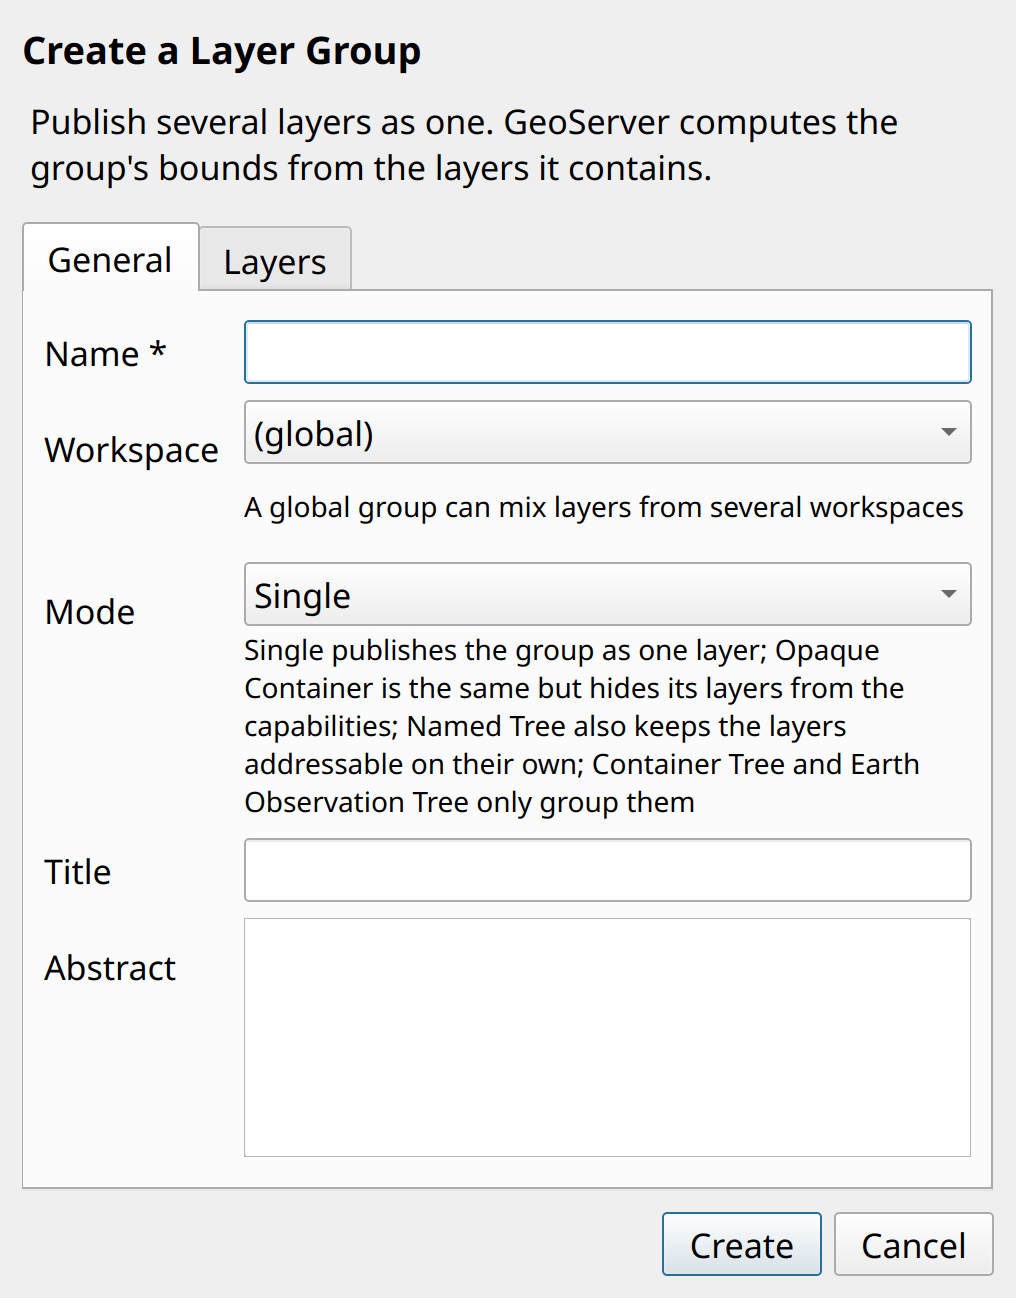
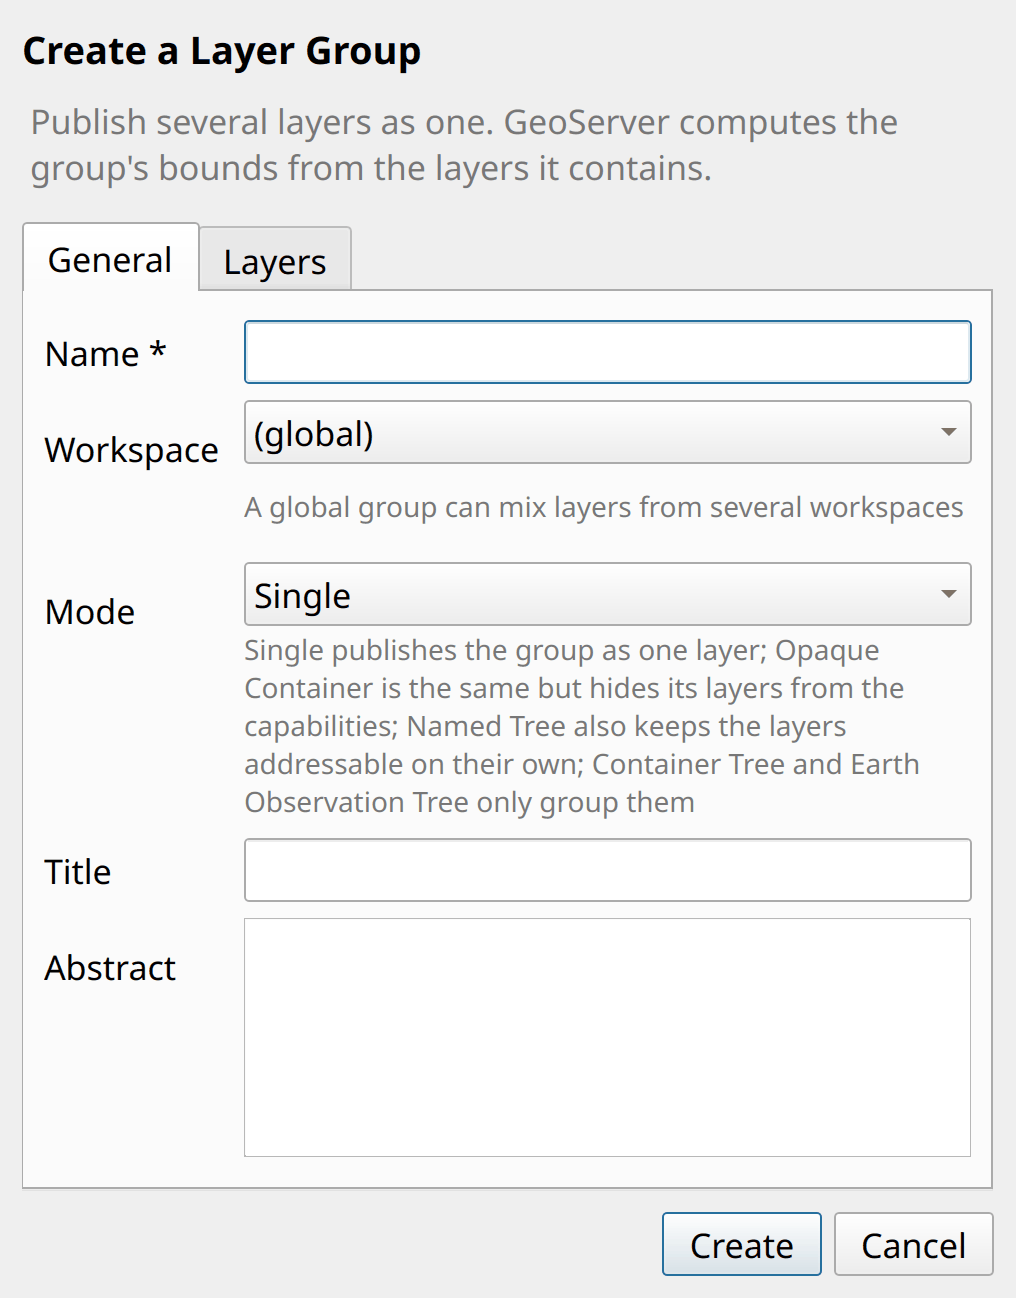
fix: forms keep a stored zoom, ask on the close button, grey their hints, open unscrolled
F22: a ListTable spin cell set its range to the column's (0 to 40 for a
gridset's zoom) before the stored value, so Qt clamped it: a gridset
stored with zoom 45 read back as 40, and the tile cache edit's untouched
Save rewrote it. The cell's range now always includes the stored value,
as the form's own spinbox already does; one below it still means "all".

F24: only Esc and Cancel went through the Discard question. The window
manager's close button sends a spontaneous close event, and QDialog's
closeEvent rejected the form with the edit gone. closeEvent now asks the
same question for a spontaneous close and keeps the form open unless the
answer is Discard; a close() from the code stays quiet. Checking it showed
the seed task viewer's Save button coming back: QDialogButtonBox shows
every button again when one is added, so "Stop all" undid
hide_save_button(), and once the polled task list landed Close asked to
discard changes. add_button() now keeps a hidden Save hidden.

F53: Qt's default PlaceholderText is the text colour at alpha 128, and
hint_colour() returned it as #rrggbb, which drops the alpha. Every form
description, field help and image placeholder was drawn in the full text
colour (#000000 on this QGIS), unlike the real placeholders beside them.
The colour is now blended over the window colour (#777777 there), which
still clears the 3:1 contrast floor in both themes.

F54: needed_height() started from totalHeightForWidth(), which is -1 plus
[…]

Changed region(s): [[0.2441, 0.4931, 0.9154, 0.6471], [0.0305, 0.0616, 0.8848, 0.1541], [0.2441, 0.3698, 0.9459, 0.4006]]

diff --git a/geoserver_manager/resources/i18n/geoserver_manager_en.ts b/geoserver_manager/resources/i18n/geoserver_manager_en.ts
@@ -3957,32 +3957,32 @@ Enter your GeoServer's URL, user name and password on the settings page that ope
         <translation type="unfinished" />
     </message>
     <message>
-        <location filename="../../gui/dlg_resource_form.py" line="886" />
+        <location filename="../../gui/dlg_resource_form.py" line="904" />
         <source>Discard your changes?</source>
         <translation type="unfinished" />
     </message>
     <message>
-        <location filename="../../gui/dlg_resource_form.py" line="904" />
+        <location filename="../../gui/dlg_resource_form.py" line="926" />
         <source>Close</source>
         <translation type="unfinished" />
     </message>
     <message>
-        <location filename="../../gui/dlg_resource_form.py" line="948" />
+        <location filename="../../gui/dlg_resource_form.py" line="970" />
         <source>'{}' is picked in '{}' but not added: press Add, or clear it.</source>
         <translation type="unfinished" />
     </message>
     <message>
-        <location filename="../../gui/dlg_resource_form.py" line="952" />
+        <location filename="../../gui/dlg_resource_form.py" line="974" />
         <source>'{}' must start with http:// or https://.</source>
         <translation type="unfinished" />
     </message>
     <message>
-        <location filename="../../gui/dlg_resource_form.py" line="954" />
+        <location filename="../../gui/dlg_resource_form.py" line="976" />
         <source>'{}' has nothing to choose from.</source>
         <translation type="unfinished" />
     </message>
     <message>
-        <location filename="../../gui/dlg_resource_form.py" line="956" />
+        <location filename="../../gui/dlg_resource_form.py" line="978" />
         <source>'{}' is required.</source>
         <translation type="unfinished" />
     </message>

diff --git a/geoserver_manager/resources/i18n/geoserver_manager_fr.ts b/geoserver_manager/resources/i18n/geoserver_manager_fr.ts
@@ -3957,32 +3957,32 @@ Enter your GeoServer's URL, user name and password on the settings page that ope
         <translation type="unfinished" />
     </message>
     <message>
-        <location filename="../../gui/dlg_resource_form.py" line="886" />
+        <location filename="../../gui/dlg_resource_form.py" line="904" />
         <source>Discard your changes?</source>
         <translation type="unfinished" />
     </message>
     <message>
-        <location filename="../../gui/dlg_resource_form.py" line="904" />
+        <location filename="../../gui/dlg_resource_form.py" line="926" />
         <source>Close</source>
         <translation type="unfinished" />
     </message>
     <message>
-        <location filename="../../gui/dlg_resource_form.py" line="948" />
+        <location filename="../../gui/dlg_resource_form.py" line="970" />
         <source>'{}' is picked in '{}' but not added: press Add, or clear it.</source>
         <translation type="unfinished" />
     </message>
     <message>
-        <location filename="../../gui/dlg_resource_form.py" line="952" />
+        <location filename="../../gui/dlg_resource_form.py" line="974" />
         <source>'{}' must start with http:// or https://.</source>
         <translation type="unfinished" />
     </message>
     <message>
-        <location filename="../../gui/dlg_resource_form.py" line="954" />
+        <location filename="../../gui/dlg_resource_form.py" line="976" />
         <source>'{}' has nothing to choose from.</source>
         <translation type="unfinished" />
     </message>
     <message>
-        <location filename="../../gui/dlg_resource_form.py" line="956" />
+        <location filename="../../gui/dlg_resource_form.py" line="978" />
         <source>'{}' is required.</source>
         <translation type="unfinished" />
     </message>

diff --git a/tests/qgis/test_resource_form.py b/tests/qgis/test_resource_form.py
@@ -180,6 +180,18 @@ class TestResourceFormHeight(unittest.TestCase):
         self.assertGreaterEqual(dlg.height(), needed)
         dlg.close()
 
+    def test_a_form_without_a_description_opens_unscrolled(self):
+        # Its layout has no height-for-width, and the height needed was -1.
+        from qgis.PyQt.QtWidgets import QApplication
+
+        fields = [{"key": f"f{i}", "label": "Field", "type": "text"} for i in range(8)]
+        dlg = ResourceFormDialog(title="t", fields=fields)
+        dlg.resize(dlg.minimumSizeHint())
+        dlg.show()
+        self.addCleanup(dlg.close)
+        QApplication.processEvents()
+        self.assertEqual(dlg._field_page["f0"].verticalScrollBar().maximum(), 0)
+
 
 class TestResourceFormResize(unittest.TestCase):
     """A resized form scrolls or grows; it never squeezes or overlaps."""
@@ -368,6 +380,22 @@ class TestListValues(unittest.TestCase):
         table.picker.setCurrentText("EPSG:4326")
         table._add_picked()
         self.assertEqual(table.rows(), ["EPSG:4326"])
+
+    def test_a_stored_zoom_outside_the_range_comes_back_as_it_was(self):
+        # Clamped to the column's range, an untouched Save rewrote 45 as 40.
+        spin = {"label": "Z", "type": "spin", "min": 0, "max": 40}
+        dlg = self.form(
+            [
+                {
+                    "key": "t",
+                    "label": "T",
+                    "type": "table",
+                    "columns": [{"label": "Gridset"}, spin, spin],
+                }
+            ],
+            {"t": [["big", 3, 45], ["low", -3, None]]},
+        )
+        self.assertEqual(dlg.get_values()["t"], [["big", 3, 45], ["low", -3, None]])
 
 
 class TestKeysAndWheel(unittest.TestCase):
@@ -568,6 +596,46 @@ class TestEscapeAsksFirst(unittest.TestCase):
         dlg.set_values({"body": "<changed/>"})
         dlg._on_cancel()
         self.assertFalse(dlg.isVisible())
+
+    def test_the_window_close_button_asks_too(self):
+        from qgis.PyQt.QtWidgets import QMessageBox
+
+        asked = self.answer(QMessageBox.StandardButton.Cancel)
+        dlg = self.form()
+        dlg.set_values({"body": "<changed/>"})
+        dlg.windowHandle().close()  # a spontaneous close, as the title bar's X
+        self.assertEqual(len(asked), 1)
+        self.assertTrue(dlg.isVisible())
+
+    def test_discard_on_the_close_button_closes_and_close_stays_quiet(self):
+        from qgis.PyQt.QtWidgets import QMessageBox
+
+        asked = self.answer(QMessageBox.StandardButton.Discard)
+        dlg = self.form()
+        dlg.set_values({"body": "<changed/>"})
+        dlg.windowHandle().close()
+        self.assertFalse(dlg.isVisible())
+        quiet = self.form()
+        quiet.set_values({"body": "<changed/>"})
+        quiet.close()
+        self.assertFalse(quiet.isVisible())
+        self.assertEqual(len(asked), 1)
+
+    def test_a_viewer_with_a_button_of_its_own_stays_a_viewer(self):
+        # The seed tasks viewer's Stop all showed Save again, and its polled
+        # text then made Close ask to discard changes.
+        from qgis.PyQt.QtWidgets import QDialogButtonBox, QMessageBox
+
+        asked = self.answer(QMessageBox.StandardButton.Cancel)
+        viewer = self.form()
+        viewer.hide_save_button()
+        viewer.add_button("Stop all")
+        save = viewer._button_box.button(QDialogButtonBox.StandardButton.Ok)
+        self.assertFalse(save.isVisible())
+        viewer.set_values({"body": "<polled/>"})
+        viewer.windowHandle().close()
+        self.assertFalse(viewer.isVisible())
+        self.assertEqual(asked, [])
 
     def test_an_untouched_form_or_a_viewer_closes_without_asking(self):
         from qgis.PyQt.QtWidgets import QMessageBox

diff --git a/geoserver_manager/gui/dlg_resource_form.py b/geoserver_manager/gui/dlg_resource_form.py
@@ -831,7 +831,12 @@ class ResourceFormDialog(QDialog):
 
     def needed_height(self):
         """The height that shows the whole form, at the current width."""
-        needed = self.layout().totalHeightForWidth(self.width())
+        layout = self.layout()
+        # Without a wrapped description, totalHeightForWidth() is -1.
+        if layout.hasHeightForWidth():
+            needed = layout.totalHeightForWidth(self.width())
+        else:
+            needed = layout.totalSizeHint().height()
         # A page's hint is its form at the form's own width. At the page's,
         # wrapped help can need more, and the form would open scrolled.
         # (Not height-for-width on the page: the dialog's layout would take
@@ -868,34 +873,51 @@ class ResourceFormDialog(QDialog):
             return
         super().keyPressEvent(event)
 
+    def closeEvent(self, event):  # noqa: N802 (Qt's own spelling)
+        """The title bar's close button asks like Esc; close() stays quiet."""
+        if event.spontaneous() and not self._may_discard():
+            event.ignore()
+            return
+        super().closeEvent(event)
+
     def _on_cancel(self):
         """Esc or Cancel: ask before an edit is thrown away.
 
         Esc closed a style's editor with its changes gone, without a word.
         A form with nothing to save (a viewer) or nothing changed just closes.
-        Only the user's own Esc and Cancel ask: close() goes through reject().
+        Only the user's own Esc, Cancel and window close button ask: close()
+        from the code goes through reject().
         """
+        if self._may_discard():
+            self.reject()
+
+    def _may_discard(self):
+        """True when closing loses nothing, or the user said Discard."""
         saves = self._button_box.button(QDialogButtonBox.StandardButton.Ok).isVisible()
-        if (
-            saves
-            and self._opened_with is not None
-            and self.get_values() != self._opened_with
-            and QMessageBox.question(
+        return (
+            not saves
+            or self._opened_with is None
+            or self.get_values() == self._opened_with
+            or QMessageBox.question(
                 self,
                 self.windowTitle(),
                 self.tr("Discard your changes?"),
                 QMessageBox.StandardButton.Discard | QMessageBox.StandardButton.Cancel,
                 QMessageBox.StandardButton.Cancel,
             )
-            != QMessageBox.StandardButton.Discard
-        ):
-            return
-        self.reject()
+            == QMessageBox.StandardButton.Discard
+        )
 
     def add_button(self, text):
         """A button beside Save and Cancel for an action of the form's own
         (Show the log, Stop all); the caller connects its clicked signal."""
-        return self._button_box.addButton(text, QDialogButtonBox.ButtonRole.ActionRole)
+        save = self._button_box.button(QDialogButtonBox.StandardButton.Ok)
+        hidden = save.isHidden()
+        button = self._button_box.addButton(
+            text, QDialogButtonBox.ButtonRole.ActionRole
+        )
+        save.setHidden(hidden)  # addButton() shows every button again
+        return button
 
     def hide_save_button(self):
         """Hide the Save button, leaving only Cancel (for view-only dialogs)."""

diff --git a/geoserver_manager/gui/theme.py b/geoserver_manager/gui/theme.py
@@ -61,7 +61,9 @@ def hint_colour(palette):
     """Colour for secondary text: descriptions, field hints.
 
     `PlaceholderText` is the role Qt itself uses for text that should read as
-    subdued without disappearing, and every QGIS theme sets it.
+    subdued without disappearing, and every QGIS theme sets it. Qt's default
+    is the text colour at half alpha, which a stylesheet's #rrggbb would
+    drop, so the colour comes back already blended over the window colour.
     """
     colour = palette.color(QPalette.ColorRole.PlaceholderText)
     if not colour.isValid() or colour.alpha() == 0:
@@ -70,7 +72,14 @@ def hint_colour(palette):
         colour = palette.color(
             QPalette.ColorGroup.Disabled, QPalette.ColorRole.WindowText
         )
-    return colour.name()
+    window = palette.color(QPalette.ColorRole.Window)
+    alpha = colour.alphaF()
+    return QColor(
+        *(
+            round(alpha * ink + (1 - alpha) * paper)
+            for ink, paper in zip(colour.getRgb()[:3], window.getRgb()[:3])
+        )
+    ).name()
 
 
 def invalid_field_colour(palette):

diff --git a/tests/qgis/test_ux.py b/tests/qgis/test_ux.py
@@ -92,6 +92,17 @@ class TestThemeColours(unittest.TestCase):
             ratio = contrast_ratio(hint_colour(palette), background)
             self.assertGreater(ratio, 1.5, f"hint on {name} is {ratio:.1f}:1")
 
+    def test_a_half_alpha_placeholder_is_blended_not_drawn_as_the_text(self):
+        # Qt's default: the text at alpha 128, which #rrggbb drew as the text.
+        for window, text in (("#f0f0f0", "#202020"), ("#232629", "#eff0f1")):
+            palette = palette_for(window, text)
+            placeholder = QColor(text)
+            placeholder.setAlpha(128)
+            palette.setColor(QPalette.ColorRole.PlaceholderText, placeholder)
+            hint = hint_colour(palette)
+            self.assertNotEqual(hint, QColor(text).name())
+            self.assertGreaterEqual(contrast_ratio(hint, window), 3.0, hint)
+
     def test_contrast_ratio_matches_the_wcag_extremes(self):
         self.assertAlmostEqual(contrast_ratio("#000000", "#ffffff"), 21.0, places=1)
         self.assertAlmostEqual(contrast_ratio("#777777", "#777777"), 1.0, places=1)

diff --git a/geoserver_manager/gui/list_table.py b/geoserver_manager/gui/list_table.py
@@ -189,9 +189,14 @@ class ListTable(QWidget):
                 cell = QSpinBox()
                 # One below the minimum is "no value", shown as none_text:
                 # Qt's own special-value mechanism, not a sentinel string.
-                cell.setRange(spec.get("min", 0) - 1, spec.get("max", 99))
+                low, high = spec.get("min", 0), spec.get("max", 99)
+                number = None if value is None else int(value)
+                if number is not None:
+                    # Never narrower than the stored value: clamped, Save rewrote it.
+                    low, high = min(low, number), max(high, number)
+                cell.setRange(low - 1, high)
                 cell.setSpecialValueText(spec.get("none_text", "-"))
-                cell.setValue(cell.minimum() if value is None else int(value))
+                cell.setValue(cell.minimum() if number is None else number)
                 cell.setReadOnly(self._read_only)
                 self.table.setCellWidget(index, column, cell)
             else:

diff --git a/CHANGELOG.md b/CHANGELOG.md
@@ -392,6 +392,18 @@ The format is based on [Keep a Changelog](https://keepachangelog.com/), and this
 
 ### Fixed
 
+- A tile cache's gridset stored with a zoom level outside the form's range
+  (such as 45) keeps it: the edit form no longer clamps it to 40, and saving
+  without touching it no longer rewrites it.
+- The window's close button asks before throwing a form's edit away, as Esc
+  and Cancel already did. The seed task list no longer shows Save again next
+  to *Stop all*, and closing it no longer asks to discard changes.
+- Form descriptions, field help and image placeholders are grey again, like
+  the placeholders next to them, instead of being drawn in the full text
+  colour.
+- A form without a description (a coverage store's or a cascaded store's
+  edit, the seed task list) opens tall enough to show its fields without
+  scrolling.
 - The layer tree's *Push style* and *Apply style* refuse a GeoServer layer
   whose name holds '/', '?', '#' or '%', as the dialog does; a push to "a#b"
   set the style of layer "a".

diff --git a/docs/usage/guide.md b/docs/usage/guide.md
@@ -42,8 +42,8 @@ the tab reloads once GeoServer answers.
 
 In a form, a name that is taken, a layer that is not on the server or a
 zoom range with one end is refused before the form closes, with what you
-typed still there. Enter in a list's picker adds the name. Esc or *Cancel*
-asks before throwing an edit away.
+typed still there. Enter in a list's picker adds the name. Esc, *Cancel*
+or the window's close button asks before throwing an edit away.
 
 Every delete asks first and says what else goes with it. GeoServer deletes
 recursively: a workspace takes its stores, layers and styles along.
